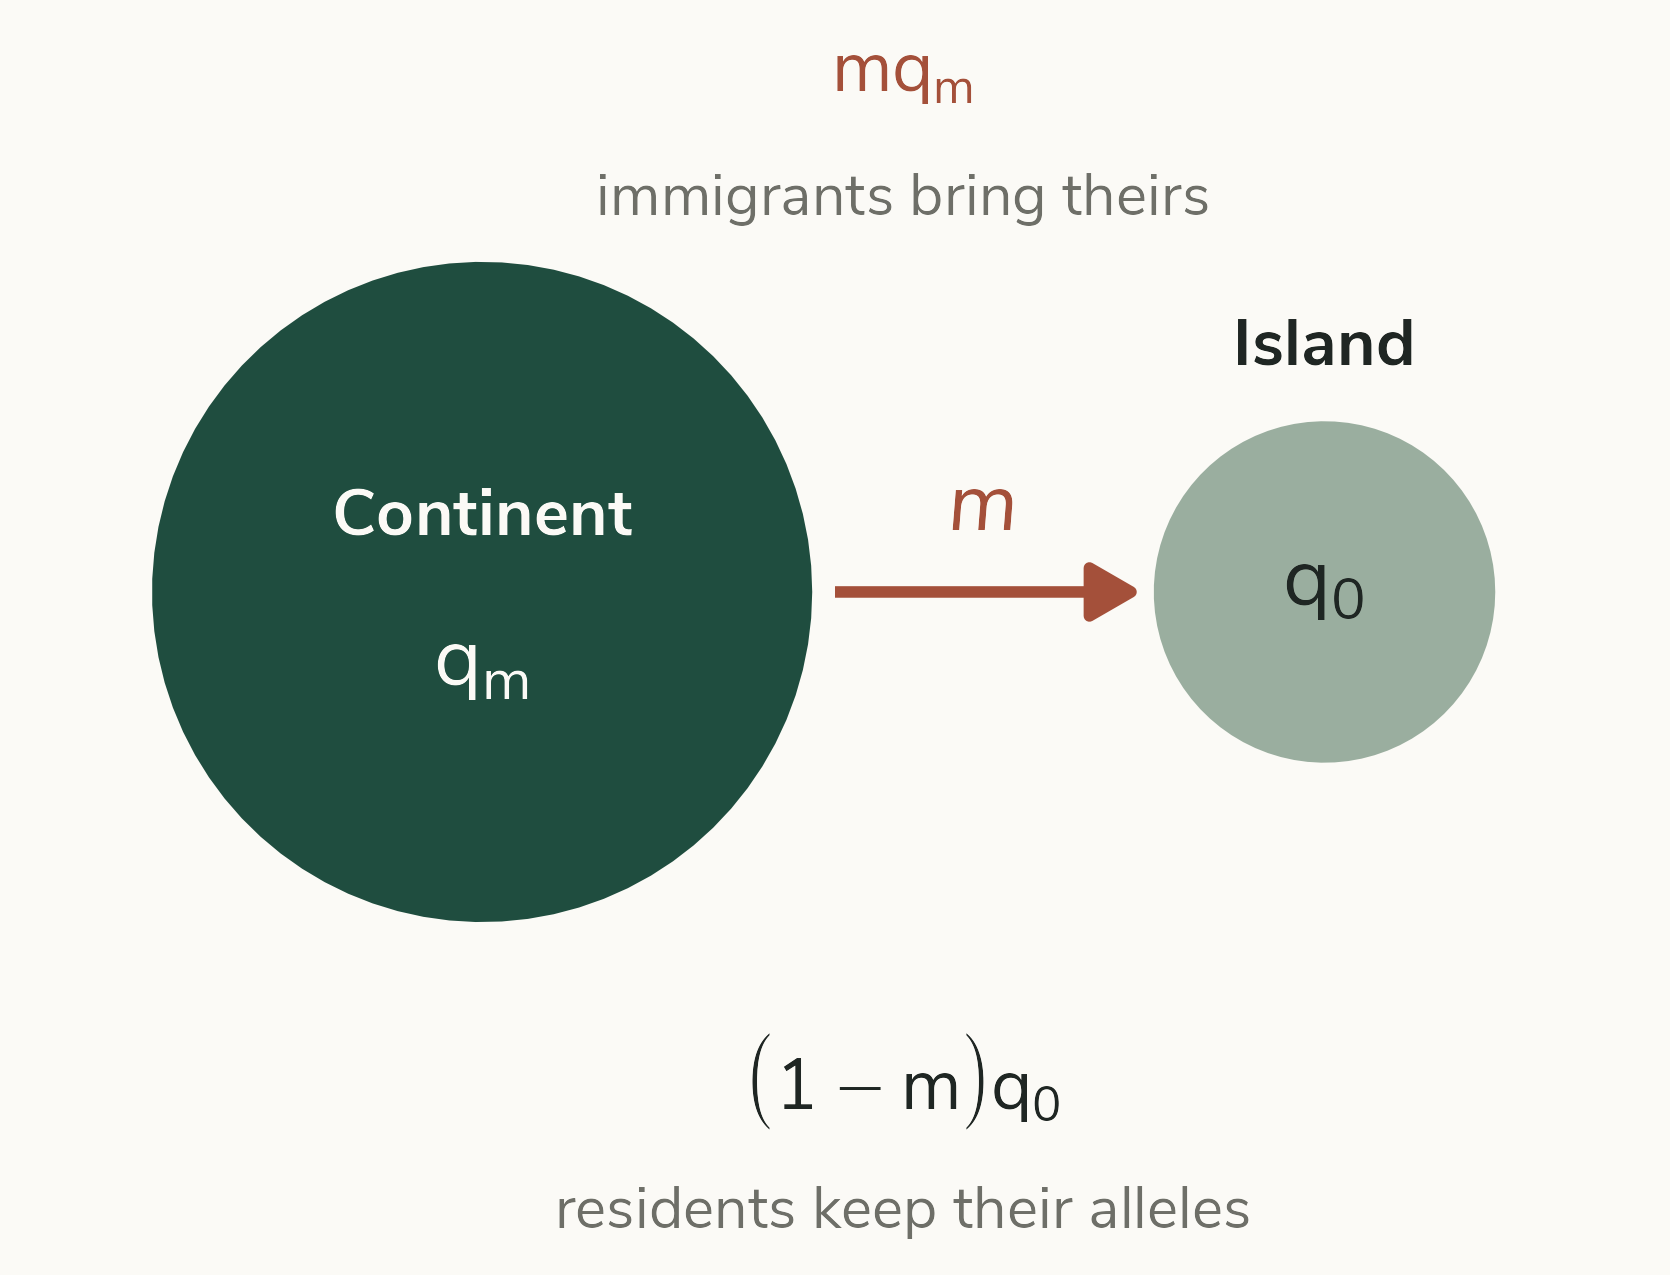
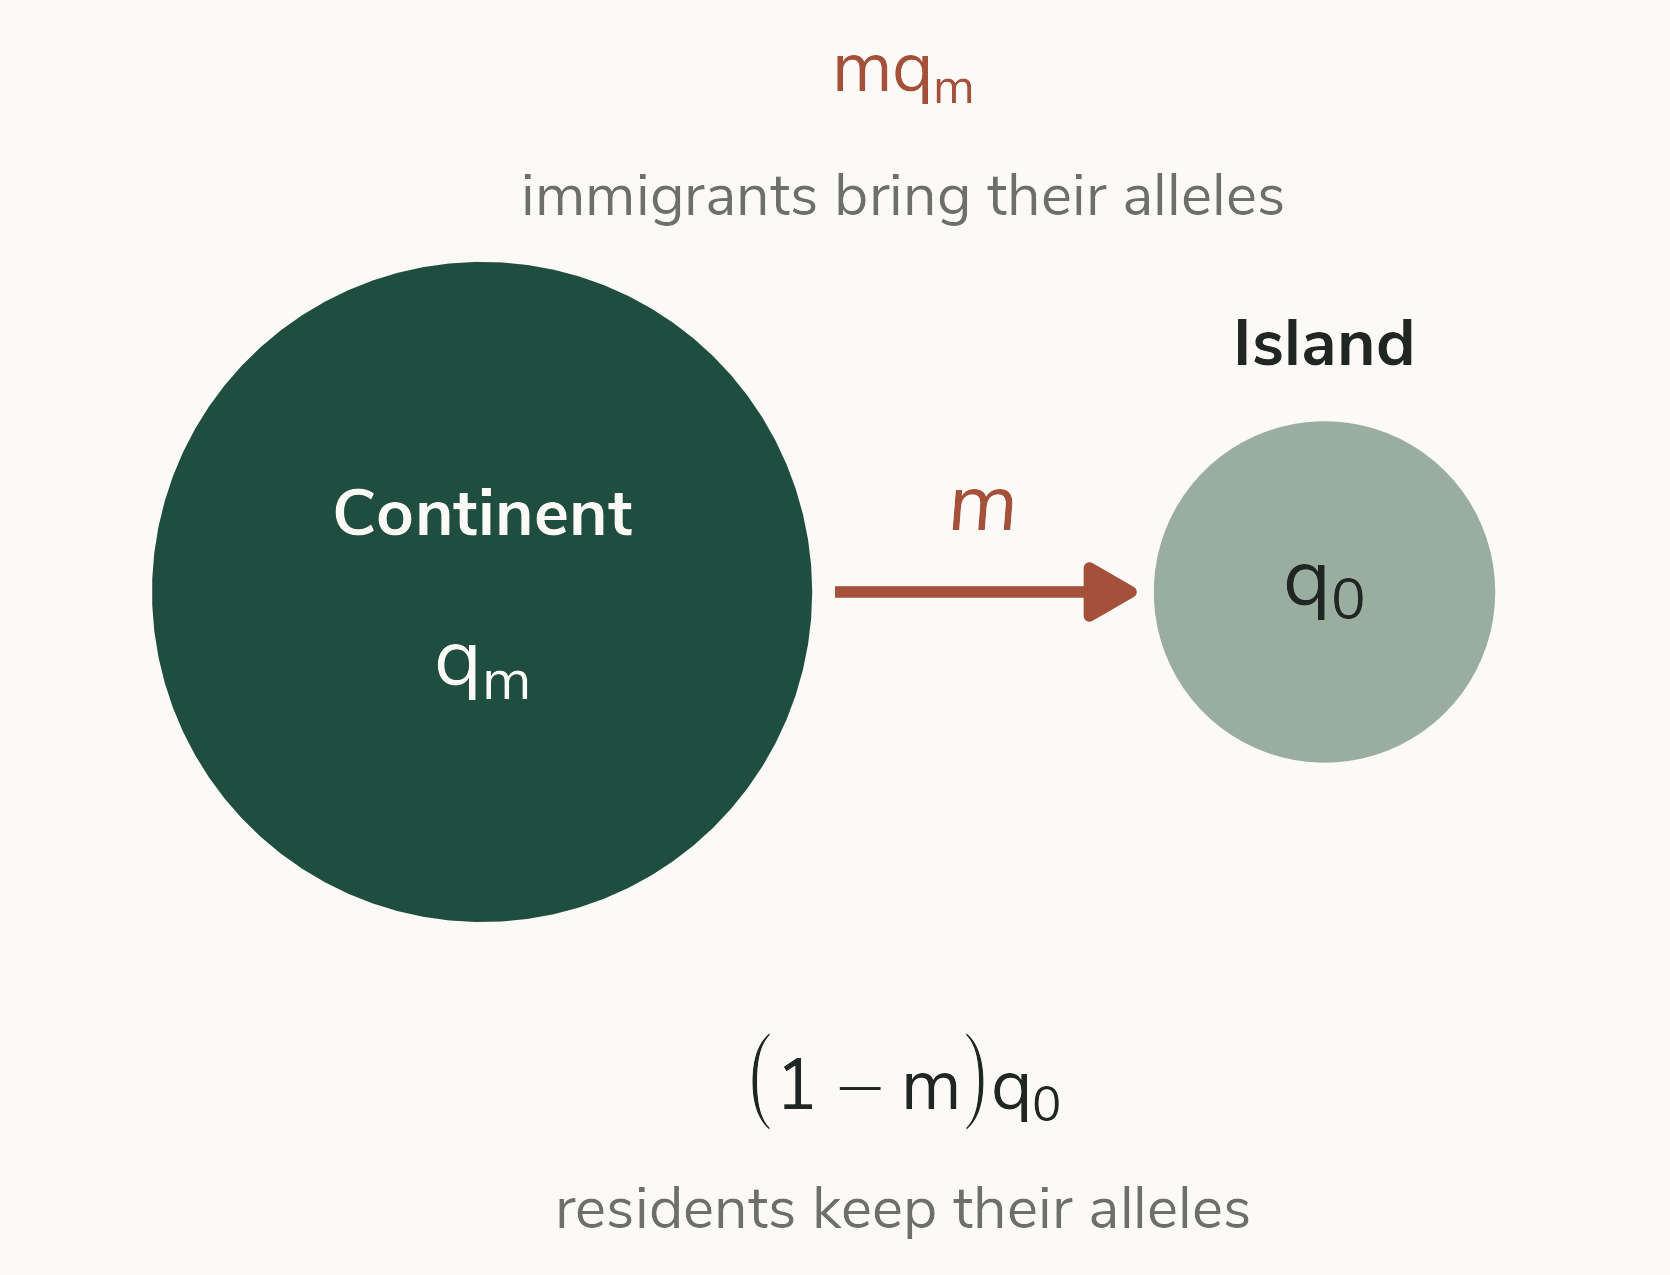
Lecture 12: Model 1 diagram label 'immigrants bring their alleles'
Claude-Session: https://claude.ai/code/session_01VCei2kxsiPRLUTCQGBi3dy

Changed region(s): [[0.3114, 0.1224, 0.7784, 0.1835]]

diff --git a/lecture_figures/migration_gene_flow/build_deck.py b/lecture_figures/migration_gene_flow/build_deck.py
@@ -233,7 +233,7 @@ fill(ph(s, 102), [
 ], size=20)
 notes(s, """~3 min.
 Notation follows Neal 9.1: q_0 = island ('native') allele frequency, q_m = frequency among immigrants, m = immigration rate. Eqn 9.1, Exp. 9.2 and Eqn 9.2.
-Say it in words: residents keep their own alleles (1 - m), immigrants bring theirs (m).
+Say it in words: residents keep their alleles (1 - m), immigrants bring their alleles (m).
 Delta q = m(q_m - q_0): change depends on the migration rate AND on how different the two populations are. Nothing else operates here: no selection, no drift, no mutation.
 Derivation of Eqn 9.2 is in Neal p. 137: the difference from the mainland shrinks by a factor (1 - m) every generation, so the island approaches q_m geometrically.
 Neal also rearranges Eqn 9.2 to estimate m from allele frequencies (Eqn 9.3, Example 9.1); point students to it for reading, including Neal's caveats about selection and drift on the markers.
